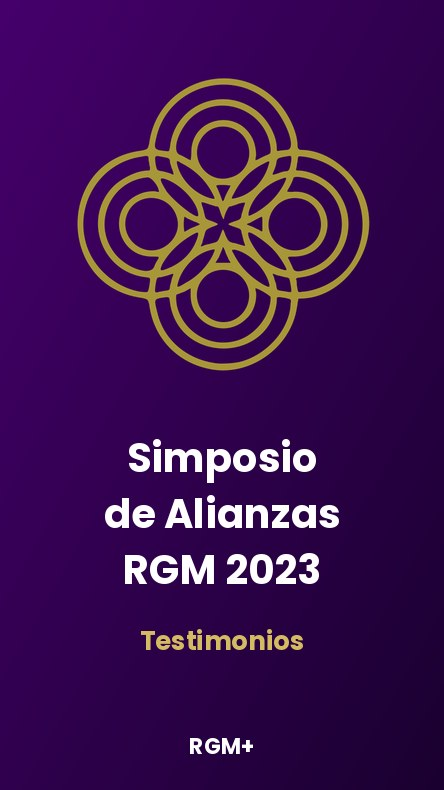
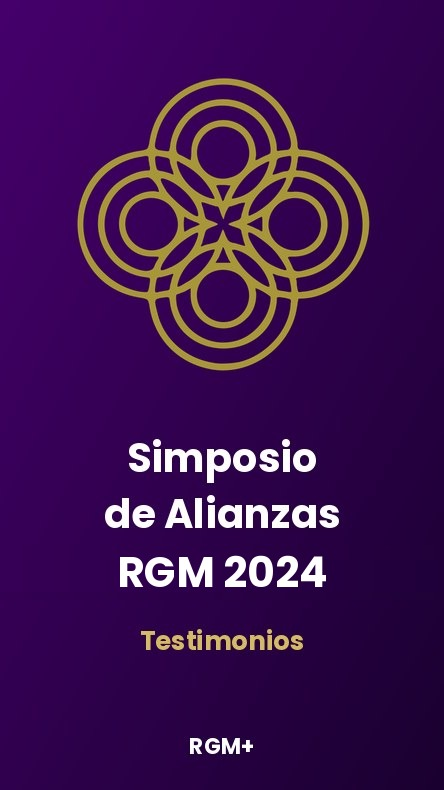
Simposio de Alianzas: portada y textos 2023 -> 2024
Claude-Session: https://claude.ai/code/session_0186Y1JCTN6iNEfwvsJg4Kxx

Changed region(s): [[0.2635, 0.6987, 0.732, 0.7595]]

diff --git a/es/rgmplus/portal/js/catalog.js b/es/rgmplus/portal/js/catalog.js
@@ -388,7 +388,7 @@
     'presentations': T('Descripción provisoria: presentación registrada, disponible a demanda.', 'Descrição provisória: apresentação registada, disponível a pedido.', 'Provisional description: recorded presentation, available on demand.'),
     'masterclass': T('Descripción provisoria: clase magistral de un mentor de la comunidad.', 'Descrição provisória: aula magistral de um mentor da comunidade.', 'Provisional description: masterclass by a community mentor.'),
     'interviews-panels': T('Descripción provisoria: conversación o panel con mentores y referentes.', 'Descrição provisória: conversa ou painel com mentores e referências.', 'Provisional description: conversation or panel with mentors and leading figures.'),
-    'testimonials': T('Descripción provisoria: testimonio de un mentor del Simposio de Alianzas RGM 2024.', 'Descrição provisória: testemunho de um mentor do Simpósio de Alianças RGM 2024.', 'Provisional description: testimonial from a mentor at the RGM Alliances Symposium 2023.'),
+    'testimonials': T('Descripción provisoria: testimonio de un mentor del Simposio de Alianzas RGM 2024.', 'Descrição provisória: testemunho de um mentor do Simpósio de Alianças RGM 2024.', 'Provisional description: testimonial from a mentor at the RGM Alliances Symposium 2024.'),
     'storytelling': T('Descripción provisoria: un relato personal contado por su protagonista.', 'Descrição provisória: um relato pessoal contado pelo seu protagonista.', 'Provisional description: a personal story told by its protagonist.')
   };
 
@@ -871,7 +871,7 @@
       description: T('40 cápsulas de alto contenido de mentoría de Ángela Mentora, de un minuto cada una.', '40 cápsulas de alto conteúdo de mentoria da Ángela Mentora, de um minuto cada uma.', '40 high-content mentoring capsules by Ángela Mentora, one minute each.') }
     ,{ id: 'simposio-alianzas-2023', author: 'red-global-de-mentores', section: 'testimonials', category: '', cover: 'assets/img/coll-simposio-alianzas.jpg',
       title: T('Simposio de Alianzas RGM 2024', 'Simpósio de Alianças RGM 2024', 'RGM Alliances Symposium 2024'),
-      description: T('Testimonios de mentores de todo el mundo presentados en el Simposio de Alianzas RGM 2024.', 'Testemunhos de mentores de todo o mundo apresentados no Simpósio de Alianças RGM 2024.', 'Testimonials from mentors around the world presented at the RGM Alliances Symposium 2023.') }
+      description: T('Testimonios de mentores de todo el mundo presentados en el Simposio de Alianzas RGM 2024.', 'Testemunhos de mentores de todo o mundo apresentados no Simpósio de Alianças RGM 2024.', 'Testimonials from mentors around the world presented at the RGM Alliances Symposium 2024.') }
     ,{ id: 'el-mentor-y-el-deporte', author: 'red-global-de-mentores', section: 'testimonials', category: 'sport', cover: 'assets/img/coll-mentor-deporte.jpg',
       title: T('El Mentor y el Deporte', 'O Mentor e o Esporte', 'The Mentor and Sport'),
       description: T('Testimonios de mentores y deportistas sobre el rol del mentor en el deporte.', 'Testemunhos de mentores e desportistas sobre o papel do mentor no esporte.', 'Testimonials from mentors and athletes about the role of the mentor in sport.') }
